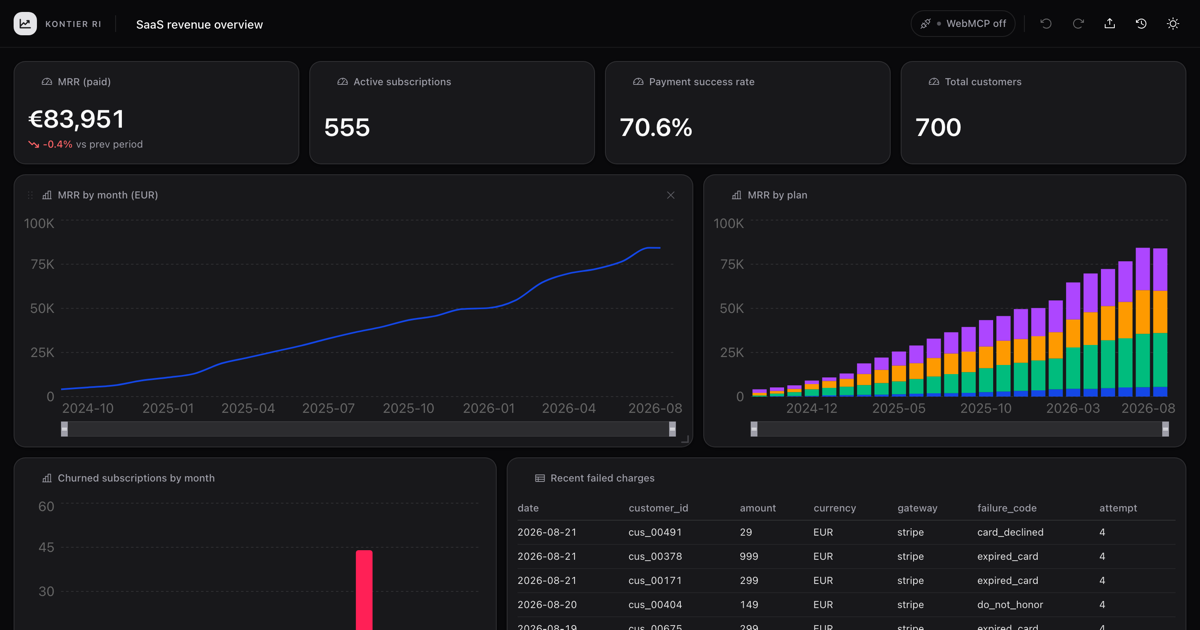
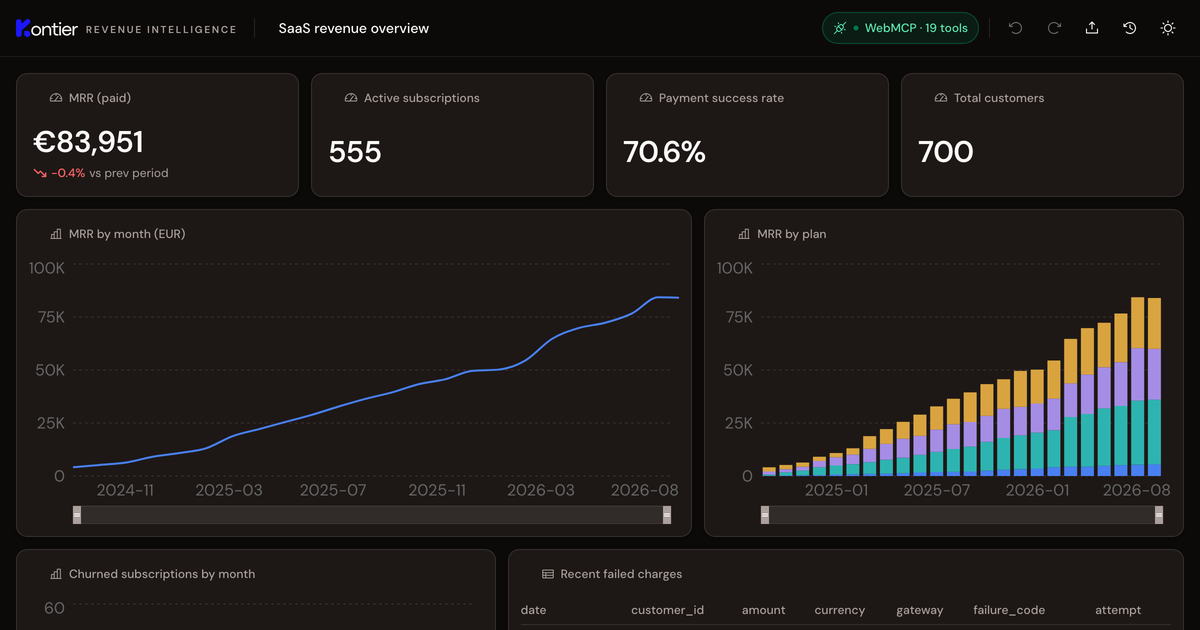
brand: regenerate og + README hero shots for the Kontier look; trademark note
New screenshots (dark, 1440x900) off the rebranded UI, og.png rendered
at 2x and downscaled to 1200x630. README gains a trademark note: the
Kontier name/logo are trademarks of the project owner, used with
permission; AGPL-3.0 covers the code, not the brand.

diff --git a/README.md b/README.md
@@ -102,6 +102,13 @@ modify and self-host; if you offer a modified version as a network service,
 you share your changes under the same terms. That keeps an analytics studio —
 software that typically runs as a service — honestly open.
 
+### Trademark
+
+The **"Kontier" name and logo are trademarks of the project owner** and are
+used here with permission. The AGPL-3.0 license covers the code, not the
+brand: forks and redistributions must not use the Kontier name or logo in a
+way that suggests endorsement or origin.
+
 ## Built by a billing SaaS team
 
 We build [Kontier](https://kontier.eu), a billing/subscription SaaS. Kontier RI
